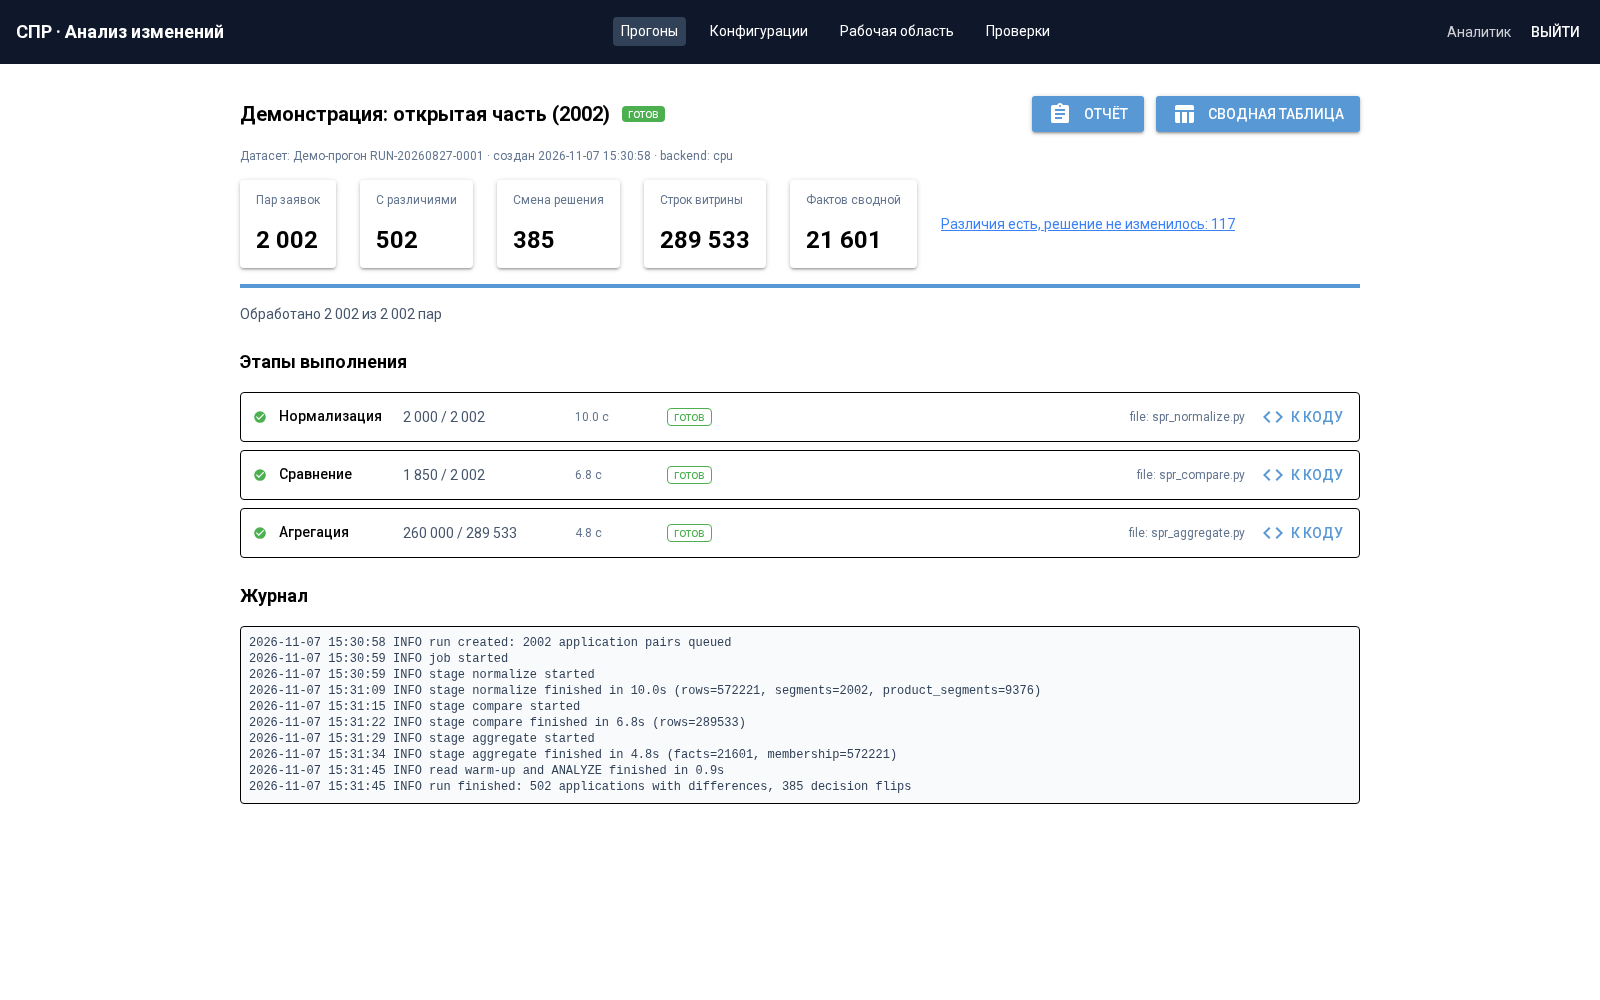
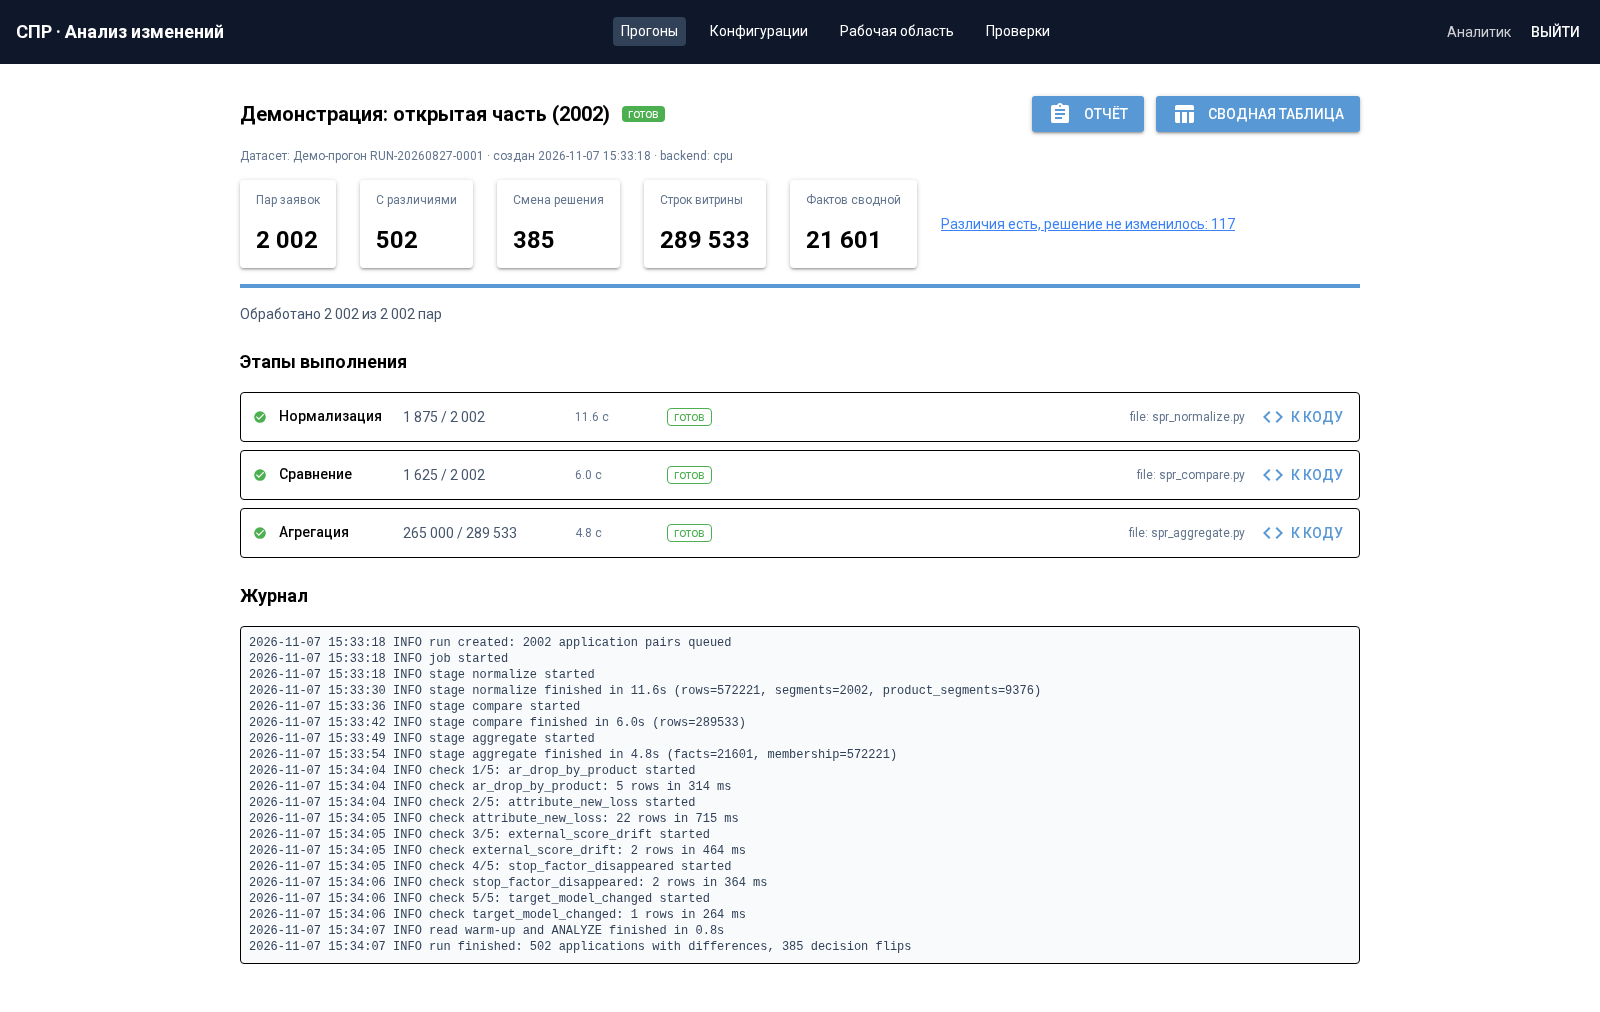
Состязательная проверка формата входа + одна команда проверки всего
Найдено и исправлено при собственном adversarial-проходе:
- XML: проброс namespace в PATH (Clark-нотация {urn:x}age) — два среза с разными
  префиксами считались бы разными атрибутами; теперь имена приводятся к локальным
- датасет: ошибка «нет файлов по маске» теперь перечисляет реально найденные
  расширения (частый случай — *.xml против .XML)
- ARCHITECTURE_NOTE: строка «pandas нужен для соединений» противоречила коду
  (pandas не импортируется вообще) — исправлено на фактическое «чистый Python + SQL»
- ручные браузерные сценарии без ассертов перенесены из tests/e2e в tools/dev/playwright
  (в tests остались только настоящие тесты)

Добавлено:
- scripts/verify.sh — одна команда: модульные тесты + сверка с эталоном организаторов
  (2002/289533/502/385, ALL SEGMENT FIELDS MATCH) + опционально весь набор из 280 тестов
- README: блок «Результат в цифрах», вывод verify.sh, галерея скриншотов, заявление о
  JSON/XML с доказательством на всех 2002 парах

Проверено независимо (мой собственный кодировщик JSON->XML, не код агента):
4004 документа, 572221 строка, 0 расхождений между JSON и XML.

diff --git a/src/change_analysis/procedures/spr_normalize_xml.py b/src/change_analysis/procedures/spr_normalize_xml.py
@@ -20,6 +20,21 @@ from xml.etree import ElementTree as ET
 TYPE = "{urn:change-analysis:types}type"
 
 
+def _local(name: str) -> str:
+    """Element/attribute name without the namespace: ``{urn:x}age`` -> ``age``.
+
+    ElementTree renders namespaced names in Clark notation.  Left as is, the
+    namespace would leak into ``PATH`` and two slices that declare the same
+    namespace under different prefixes would compare as different attributes.
+    Stripping keeps paths readable and comparable; the price is that two
+    elements with the same local name in *different* namespaces merge into one
+    key, which is documented in ``DECISIONS.md``.
+    """
+    if name.startswith("{"):
+        return name.split("}", 1)[1]
+    return name
+
+
 def _literal(text):
     try:
         value = json.loads(text)
@@ -31,7 +46,11 @@ def _literal(text):
 
 
 def element_to_value(element):
-    kind = element.get(TYPE)
+    kind = None
+    for attr_name, attr_value in element.attrib.items():
+        if _local(attr_name) == _local(TYPE):
+            kind = attr_value
+            break
     children = list(element)
     text = element.text or ""
     if children and (text.strip() or any((c.tail or "").strip() for c in children)):
@@ -42,13 +61,14 @@ def element_to_value(element):
         return text
     if kind == "array":
         return [element_to_value(c) for c in children]
-    attrs = {"@" + k: _literal(v) for k, v in element.attrib.items() if k != TYPE}
+    attrs = {"@" + _local(k): _literal(v)
+             for k, v in element.attrib.items() if _local(k) != _local(TYPE)}
     if not children and not attrs and kind != "object":
         return _literal(text.strip()) if text.strip() else ""
     result = dict(attrs)
     grouped = {}
     for child in children:
-        grouped.setdefault(child.tag, []).append(element_to_value(child))
+        grouped.setdefault(_local(child.tag), []).append(element_to_value(child))
     for key, values in grouped.items():
         result[key] = values if len(values) > 1 else values[0]
     if text.strip():

diff --git a/src/change_analysis/services/datasets.py b/src/change_analysis/services/datasets.py
@@ -98,7 +98,16 @@ def precheck_dataset(root_ref: str, abs_root: str | None = None,
     except InvalidRequest as exc:
         return {"ok": False, "errors": [str(exc)], "warnings": [], "pairs": 0}
     if not before_names or not after_names:
-        errors.append(f"no files matching file_glob={file_glob!r} in BEFORE/AFTER")
+        # Say what is actually lying there: a user who typed ``*.xml`` while the
+        # files are ``.XML`` gets "nothing found" otherwise, and that reads like a
+        # broken dataset rather than a mask typo.
+        present: list[str] = []
+        for directory in (before_dir, after_dir):
+            for path in sorted(directory.iterdir()):
+                if path.is_file() and path.suffix and path.suffix not in present:
+                    present.append(path.suffix)
+        hint = f" (files present: {', '.join(present[:5])})" if present else " (directories are empty)"
+        errors.append(f"no files matching file_glob={file_glob!r} in BEFORE/AFTER{hint}")
     pairs = sorted(before_names & after_names)
     only_before = sorted(before_names - after_names)
     only_after = sorted(after_names - before_names)

diff --git a/README.md b/README.md
@@ -12,6 +12,53 @@
 
 ---
 
+## Результат в цифрах
+
+Выданный набор: **2 002 пары** запросов СПР в двух срезах.
+
+| Показатель | Значение |
+|---|---|
+| Строк в витрине сравнения | **289 533** |
+| Заявок с различиями по существу | **502** (25,1 %) |
+| Заявок со сменой решения | **385** |
+| Approval rate | 32,8 % → 24,8 % |
+| Строк в отчёте проверок | **32** (пять выданных проверок, файлы не изменялись) |
+| Отложенные заявки (998 пар) | **248** различий / **186** смен решения |
+| Полный цикл на одной машине | **~85 с** (расчёт 19 с, загрузка в PostgreSQL ~40 с) |
+| Сводная / drill-down | **~0,78 с** / **~0,012 с** |
+
+Числа сверены с эталоном организаторов по всем 2 002 заявкам — не только итоговые
+счётчики, но и поля слоя разрезов (решение, целевая модель, порог, скор):
+
+```console
+$ ./scripts/verify.sh
+=== OPEN ===
+apps                         2002   expected 2002
+comparison rows            289533   expected 289533
+apps with any difference      502   expected 502
+apps with decision flip       385   expected 385
+--- segment layer vs expected_*.csv ---
+ALL SEGMENT FIELDS MATCH
+```
+
+Одна команда прогоняет модульные тесты и сверку с эталоном; `./scripts/verify.sh --full`
+добавляет весь набор из **280 тестов** (unit + интеграционные + e2e) на отдельной базе.
+
+## Как это выглядит
+
+| | |
+|---|---|
+| ![Отчёт проверок](docs/screens/04-report.png) | ![Сводная таблица](docs/screens/05-explore.png) |
+| Единый отчёт проверок: вердикты, уверенность, технические ошибки отдельно | Сводная: раскладку выбирает пользователь, мера — уникальные заявки |
+| ![Карточка заявки](docs/screens/07-app.png) | ![Рабочая область](docs/screens/09-jump-to-code.png) |
+| Переход от числа к заявке и к конкретному атрибуту | Переход из журнала этапов к коду, который исполнялся |
+
+Входные данные принимаются в **JSON и XML** (формат — свойство датасета, разбор — в
+пользовательской процедуре); эквивалентность разбора проверена на всех 2 002 парах:
+**572 221 строка, 0 расхождений**.
+
+---
+
 ## 1. Что оно делает и чего не делает
 
 **Делает**

diff --git a/docs/ARCHITECTURE_NOTE.md b/docs/ARCHITECTURE_NOTE.md
@@ -5,7 +5,7 @@
 | Слой | Выбор | Почему | Чем платим |
 |---|---|---|---|
 | Интерфейс | **NiceGUI** (Python, server-side) | команда пишет на Python; одна кодовая база без отдельного фронтенд-билда; готовые таблицы, редактор, диалоги | не SPA: тяжёлые интерактивные виджеты делать дороже; всё состояние — на сервере (для этой задачи это плюс) |
-| Расчёт | **pandas / чистый Python** в отдельном процессе | разбор JSON — это Python-логика, а не табличная операция; pandas нужен для соединения и группировок | отдельный процесс и сериализация артефактов |
+| Расчёт | **чистый Python + SQL**, pandas не используется | разбор ответа — это обход дерева, а не табличная операция; соединение срезов и агрегация уже выражены SQL (`GROUPING SETS`, `COUNT(DISTINCT)`), поэтому pandas не даёт выигрыша на 289 тыс. строк и остаётся лишней зависимостью в образе (`grep -rn "import pandas" src/` → пусто) | нет готового DataFrame-API в процедурах: пользователь пишет обычный Python; GPU-путь потребует отдельного интерпретатора |
 | Хранилище | **PostgreSQL** | команда знает SQL; нужны транзакции, очередь на `FOR UPDATE SKIP LOCKED`, индексы, `COPY` | нужен администрируемый сервер; альтернативой был DuckDB, но он слабее по части конкурентного доступа и очереди |
 | Очередь | таблица `ca.jobs` в той же БД | одна точка правды, без внешнего брокера | очередь не вынесена в отдельный сервис (для одной машины не нужно) |
 | Доступ к данным для проверок | **MartAPI поверх SQL** | выданные проверки требуют именно этот интерфейс | у проверок нет доступа к БД напрямую — только через объект `mart` |
